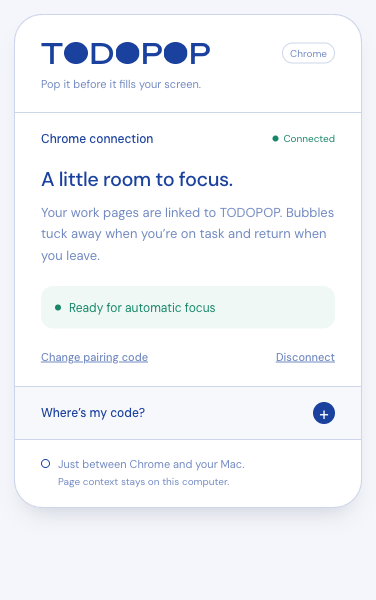
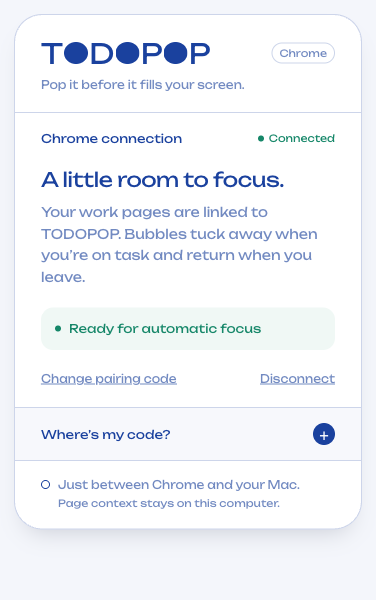
style: restore Unbounded across desktop and Chrome companion

diff --git a/packages/ui/styles.css b/packages/ui/styles.css
@@ -1,4 +1,3 @@
-@import '@fontsource-variable/dm-sans';
 @import '@fontsource-variable/unbounded';
 :root {
   --ink: #1a419e;
@@ -6,7 +5,7 @@
   --rule: rgba(26, 65, 158, 0.22);
   --tp-surface: rgba(255, 255, 255, 0.96);
   --tp-wash: #f3f6fc;
-  --tp-font: 'DM Sans Variable', sans-serif;
+  --tp-font: 'Unbounded Variable', sans-serif;
   --tp-logo-font: 'Unbounded Variable', sans-serif;
   --tp-radius: 28px;
   --tp-panel-width: 348px;
@@ -43,7 +42,7 @@
   padding: 10px 16px;
   background: transparent;
   color: var(--ink);
-  font: 500 12px/1.2 var(--tp-font);
+  font: 400 12px/1.2 var(--tp-font);
   cursor: pointer;
   transition:
     background 0.15s,
@@ -92,7 +91,7 @@
 .tp-field-label {
   display: block;
   color: var(--soft);
-  font: 500 9px/1.4 var(--tp-font);
+  font: 400 9px/1.4 var(--tp-font);
   letter-spacing: 0.8px;
   text-transform: uppercase;
 }

diff --git a/apps/chrome-extension/popup.css b/apps/chrome-extension/popup.css
@@ -73,7 +73,7 @@ button:focus-visible {
 }
 .section-head h1 {
   font-size: 12px;
-  font-weight: 500;
+  font-weight: 400;
 }
 .connection-status {
   display: inline-flex;
@@ -94,7 +94,7 @@ button:focus-visible {
 }
 .connection-body h2 {
   font-size: 20px;
-  font-weight: 500;
+  font-weight: 400;
   line-height: 1.25;
   letter-spacing: -0.45px;
   margin-bottom: 10px;
@@ -185,7 +185,7 @@ button:focus-visible {
   background: none;
   border: 0;
   font-size: 12px;
-  font-weight: 500;
+  font-weight: 400;
   text-align: left;
 }
 .help-toggle:hover {
@@ -234,7 +234,7 @@ button:focus-visible {
   color: var(--ink);
 }
 .help-steps strong {
-  font-weight: 500;
+  font-weight: 400;
   color: var(--ink);
 }
 .privacy {

diff --git a/docs/progress-report.zh-CN.html b/docs/progress-report.zh-CN.html
@@ -12,7 +12,7 @@
 </thead>
 <tbody><tr>
 <td>Chrome Extension UI</td>
-<td>与面板共享 Logo、DM Sans、蓝色方案、按钮、输入框和状态组件；有未配对、连接中、连接成功、断开、错误与帮助状态</td>
+<td>与面板共享 Logo、Unbounded、蓝色方案、按钮、输入框和状态组件；有未配对、连接中、连接成功、断开、错误与帮助状态</td>
 <td>完成</td>
 </tr>
 <tr>

diff --git a/docs/progress-report.zh-CN.md b/docs/progress-report.zh-CN.md
@@ -6,25 +6,25 @@
 
 本轮从扩展 UI 开始，继续完成了桌面主要功能闭环。**可以试用，但还不是正式公开发布版，也没有把 Figma 的软体挤压效果完整复现。**
 
-| 模块                | 已完成内容                                                                                                   | 状态                             |
-| ------------------- | ------------------------------------------------------------------------------------------------------------ | -------------------------------- |
-| Chrome Extension UI | 与面板共享 Logo、DM Sans、蓝色方案、按钮、输入框和状态组件；有未配对、连接中、连接成功、断开、错误与帮助状态 | 完成                             |
-| 输入框样式          | 取消你截图里的蓝色矩形 focus 框，只保留下划线与输入光标；桌面输入框同步                                      | 完成并专项测试                   |
-| 本地数据            | 版本化 `state.json`；旧 `tasks.json` 自动迁移并先备份；存任务、分组、设置、完成历史与自动专注历史            | 完成                             |
-| 点击规则            | 气泡有链接就打开 URL，无链接就 Pop；编辑浮层主按钮同样区分                                                   | 完成                             |
-| 增长                | 四级基础大小、有效等待时长、正式速度和独立 Demo 预览                                                         | 完成基础逻辑                     |
-| 全局暂停            | 30 min、1 hour、Till tomorrow、Until I resume、Resume；保持气泡可见，停止增长并显示暂停样式                  | 完成                             |
-| 单任务 Snooze       | 隐藏单个任务 10 分钟；列表可点 Show now 提前恢复                                                             | 完成，与全局 Pause 分开          |
-| 布局                | 圆形避让、面板保护区、四边排列、Shuffle、组的 preferred side；达到容量阈值暂停增长                           | 已实现可用近似                   |
-| 自动 Focus          | Chrome 前台匹配工作 URL 就隐藏普通气泡和面板；离开/断开就恢复；保留既有本地认证与重连                        | 完成逻辑；真实系统切换请人工复核 |
-| 分组/主题           | 新增、改名、删除组；六个预设色、占用色交换、自定义颜色保持；组侧边位置；四种 Tint 与自定义色                 | 功能完成；部分视觉采用简化控件   |
-| 手动排序            | grip 拖动、方向键排序，rank 保存到本地                                                                       | 完成，键盘路径已自动验证         |
-| 归档                | Week / Month、日期切换、完成数、最佳日、自动专注历史时长、每日完成列表                                       | 完成                             |
-| Rebubble            | 新 ID、新一轮、等待与增长重置；原完成任务及历史保留                                                          | 完成                             |
-| 编辑与 Undo         | 靠近目标气泡的独立编辑窗口，Save/Cancel/Delete；删除 toast 可撤销                                            | 完成                             |
-| 最小化              | 右下角 Launcher、Dock/菜单恢复、注册 ⌘⇧Space；保存主面板位置                                                 | 完成；快捷键冲突需人工确认       |
-| 未保存草稿          | 创建任务时切去管理分组，再回来保留当前草稿                                                                   | 完成                             |
-| 本机安装产物        | Apple Silicon `.app` / `.dmg`，打包 App 的启动、创建任务、完成、退出冒烟测试                                 | 完成预览包；不等于正式签名发布   |
+| 模块                | 已完成内容                                                                                                     | 状态                             |
+| ------------------- | -------------------------------------------------------------------------------------------------------------- | -------------------------------- |
+| Chrome Extension UI | 与面板共享 Logo、Unbounded、蓝色方案、按钮、输入框和状态组件；有未配对、连接中、连接成功、断开、错误与帮助状态 | 完成                             |
+| 输入框样式          | 取消你截图里的蓝色矩形 focus 框，只保留下划线与输入光标；桌面输入框同步                                        | 完成并专项测试                   |
+| 本地数据            | 版本化 `state.json`；旧 `tasks.json` 自动迁移并先备份；存任务、分组、设置、完成历史与自动专注历史              | 完成                             |
+| 点击规则            | 气泡有链接就打开 URL，无链接就 Pop；编辑浮层主按钮同样区分                                                     | 完成                             |
+| 增长                | 四级基础大小、有效等待时长、正式速度和独立 Demo 预览                                                           | 完成基础逻辑                     |
+| 全局暂停            | 30 min、1 hour、Till tomorrow、Until I resume、Resume；保持气泡可见，停止增长并显示暂停样式                    | 完成                             |
+| 单任务 Snooze       | 隐藏单个任务 10 分钟；列表可点 Show now 提前恢复                                                               | 完成，与全局 Pause 分开          |
+| 布局                | 圆形避让、面板保护区、四边排列、Shuffle、组的 preferred side；达到容量阈值暂停增长                             | 已实现可用近似                   |
+| 自动 Focus          | Chrome 前台匹配工作 URL 就隐藏普通气泡和面板；离开/断开就恢复；保留既有本地认证与重连                          | 完成逻辑；真实系统切换请人工复核 |
+| 分组/主题           | 新增、改名、删除组；六个预设色、占用色交换、自定义颜色保持；组侧边位置；四种 Tint 与自定义色                   | 功能完成；部分视觉采用简化控件   |
+| 手动排序            | grip 拖动、方向键排序，rank 保存到本地                                                                         | 完成，键盘路径已自动验证         |
+| 归档                | Week / Month、日期切换、完成数、最佳日、自动专注历史时长、每日完成列表                                         | 完成                             |
+| Rebubble            | 新 ID、新一轮、等待与增长重置；原完成任务及历史保留                                                            | 完成                             |
+| 编辑与 Undo         | 靠近目标气泡的独立编辑窗口，Save/Cancel/Delete；删除 toast 可撤销                                              | 完成                             |
+| 最小化              | 右下角 Launcher、Dock/菜单恢复、注册 ⌘⇧Space；保存主面板位置                                                   | 完成；快捷键冲突需人工确认       |
+| 未保存草稿          | 创建任务时切去管理分组，再回来保留当前草稿                                                                     | 完成                             |
+| 本机安装产物        | Apple Silicon `.app` / `.dmg`，打包 App 的启动、创建任务、完成、退出冒烟测试                                   | 完成预览包；不等于正式签名发布   |
 
 ## 增长与 Demo 的具体规则
 

diff --git a/docs/product-decisions.zh-CN.md b/docs/product-decisions.zh-CN.md
@@ -12,7 +12,9 @@
 - 全局暂停保持气泡可见并显示暂停样式；与单任务隐藏 10 分钟的 Snooze 区分。支持 30 min、1 hour、Till tomorrow、Until I resume。
 - Rebubble 创建新的任务 ID/新一轮，重置等待与增长，保留过去完成事件；不抹掉旧完成记录。
 - 分组使用稳定 ID，名称可编辑，配色与 urgency 分开。默认仍为 School / Work / Life；新增、改名、移除和侧边位置按计划补齐。
-- UI 初始仍用现有蓝色方案；正文与控件采用 DM Sans，Logo 保留现有 Unbounded 字形。主题与组色设置不改变初始默认外观。
+- UI 初始仍用现有蓝色方案；正文与控件采用 Unbounded，Logo 保留现有 Unbounded 字形。主题与组色设置不改变初始默认外观。
 - 手机端不做；不增加用户账号、任务云同步。桌面版维持本地运行。
 - 优先完成 Chrome Extension UI，再按数据/历史 → 增长/暂停 → 布局 → 分组/主题/排序 → 归档/撤销/Launcher → 打包与验收继续。
 - 遇到需要发布凭据、外部审核或暂时无法验证的环节，先记录并跳过，最后提供进度报告、测试详情和人工复核清单。
+
+- 字体后续修订：按用户截图恢复 Unbounded，扩展和 Panel 的正文、按钮、输入框共同使用；保留输入框无矩形 focus 框的设置。

diff --git a/README.md b/README.md
@@ -53,7 +53,7 @@ apps/
   chrome-extension/ Manifest V3 worker, reconnect manager, pairing popup
 packages/
   shared/           Task/context types, validation, growth, layout, history, domain commands
-  ui/               Shared Figma logo, DM Sans, theme tokens and React controls
+  ui/               Shared Figma logo, Unbounded, theme tokens and React controls
 docs/
   technical-plan.md Original supplied plan
   design-reference.md Design decisions and source nodes
